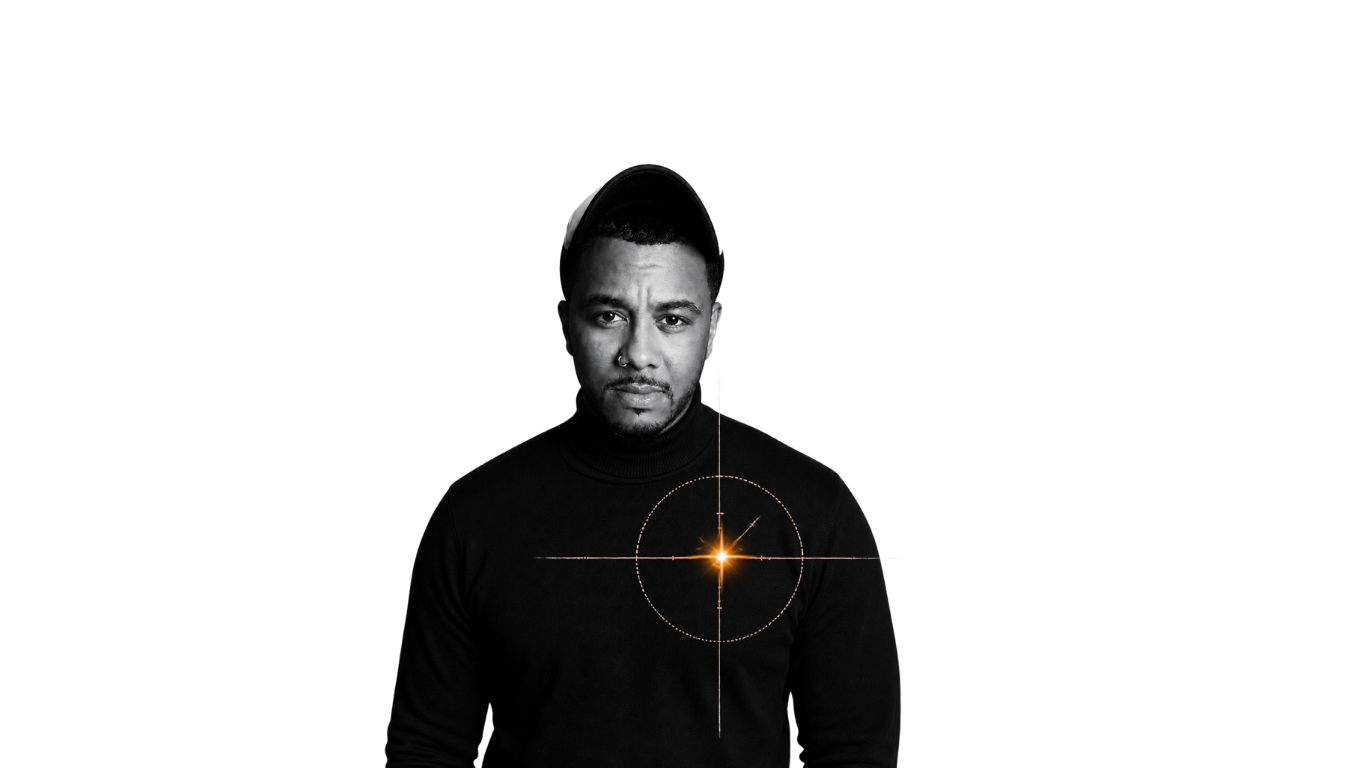
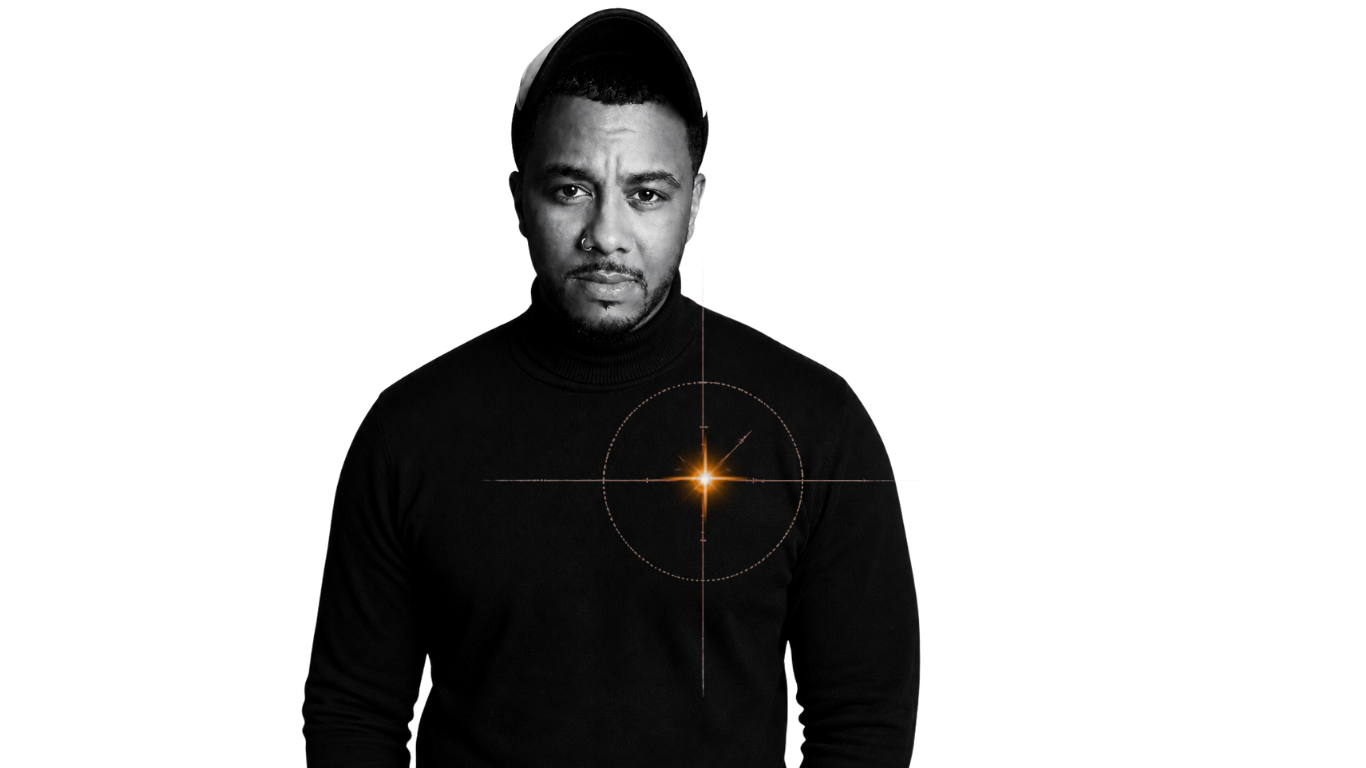
feat(hero): swap portrait to larger asset; feat(diagnostic): gradient border card + orange focus + gold/orange button states

diff --git a/src/components/applied-intelligence/DiagnosticForm.tsx b/src/components/applied-intelligence/DiagnosticForm.tsx
@@ -163,7 +163,17 @@ export default function DiagnosticForm() {
   }
 
   return (
-    <div className="rounded-2xl border border-white/10 bg-[#0B1020] p-6 sm:p-10">
+    <div
+      style={{
+        background:
+          "linear-gradient(#0B0F1A, #0B0F1A) padding-box, linear-gradient(145deg, transparent 28%, rgba(255,69,0,0.95), rgba(59,91,255,0.9) 68%, rgba(200,169,106,0.75)) border-box",
+        border: "1px solid transparent",
+        borderRadius: "24px",
+        boxShadow:
+          "0 24px 80px rgba(0,0,0,0.35), 0 0 48px rgba(59,91,255,0.08), 0 0 32px rgba(255,69,0,0.06)",
+      }}
+      className="p-6 sm:p-10"
+    >
       <ol className="mb-8 grid grid-cols-2 gap-2 text-xs uppercase tracking-wider text-slate-400 sm:grid-cols-6">
         {STEPS.map((label, i) => (
           <li
@@ -214,7 +224,7 @@ export default function DiagnosticForm() {
           type="button"
           onClick={() => setStep((s) => Math.max(0, s - 1))}
           disabled={step === 0 || submitting}
-          className="rounded-md border border-white/15 px-5 py-2.5 text-sm font-semibold text-white transition hover:border-white/30 hover:bg-white/5 disabled:opacity-40"
+          className="rounded-md border border-white/15 px-5 py-2.5 text-sm font-semibold text-white transition hover:border-[#C8A96A]/50 hover:bg-white/5 disabled:opacity-40"
         >
           Back
         </button>
@@ -223,7 +233,7 @@ export default function DiagnosticForm() {
             type="button"
             onClick={() => setStep((s) => Math.min(STEPS.length - 1, s + 1))}
             disabled={!canAdvance}
-            className="rounded-md bg-[#3B5BFF] px-6 py-2.5 text-sm font-semibold text-white transition hover:bg-[#5B7AFF] disabled:opacity-40"
+            className="rounded-md bg-[#3B5BFF] px-6 py-2.5 text-sm font-semibold text-white transition hover:bg-[#FF4500] disabled:opacity-40"
           >
             Continue
           </button>
@@ -232,7 +242,7 @@ export default function DiagnosticForm() {
             type="button"
             onClick={submit}
             disabled={!canAdvance || submitting}
-            className="rounded-md bg-[#3B5BFF] px-6 py-2.5 text-sm font-semibold text-white transition hover:bg-[#5B7AFF] disabled:opacity-40"
+            className="rounded-md bg-[#3B5BFF] px-6 py-2.5 text-sm font-semibold text-white transition hover:bg-[#FF4500] disabled:opacity-40"
           >
             {submitting ? "Submitting…" : "Submit diagnostic"}
           </button>
@@ -268,7 +278,7 @@ function Field({
 }
 
 const inputCls =
-  "w-full rounded-md border border-white/10 bg-[#05070F] px-3 py-2.5 text-sm text-white outline-none transition focus:border-[#3B5BFF]";
+  "w-full rounded-md border border-white/10 bg-[#05070F] px-3 py-2.5 text-sm text-white outline-none transition focus:border-[#FF4500] focus:ring-2 focus:ring-[#FF4500]/10";
 
 function Step1({ state, update }: StepProps) {
   return (
